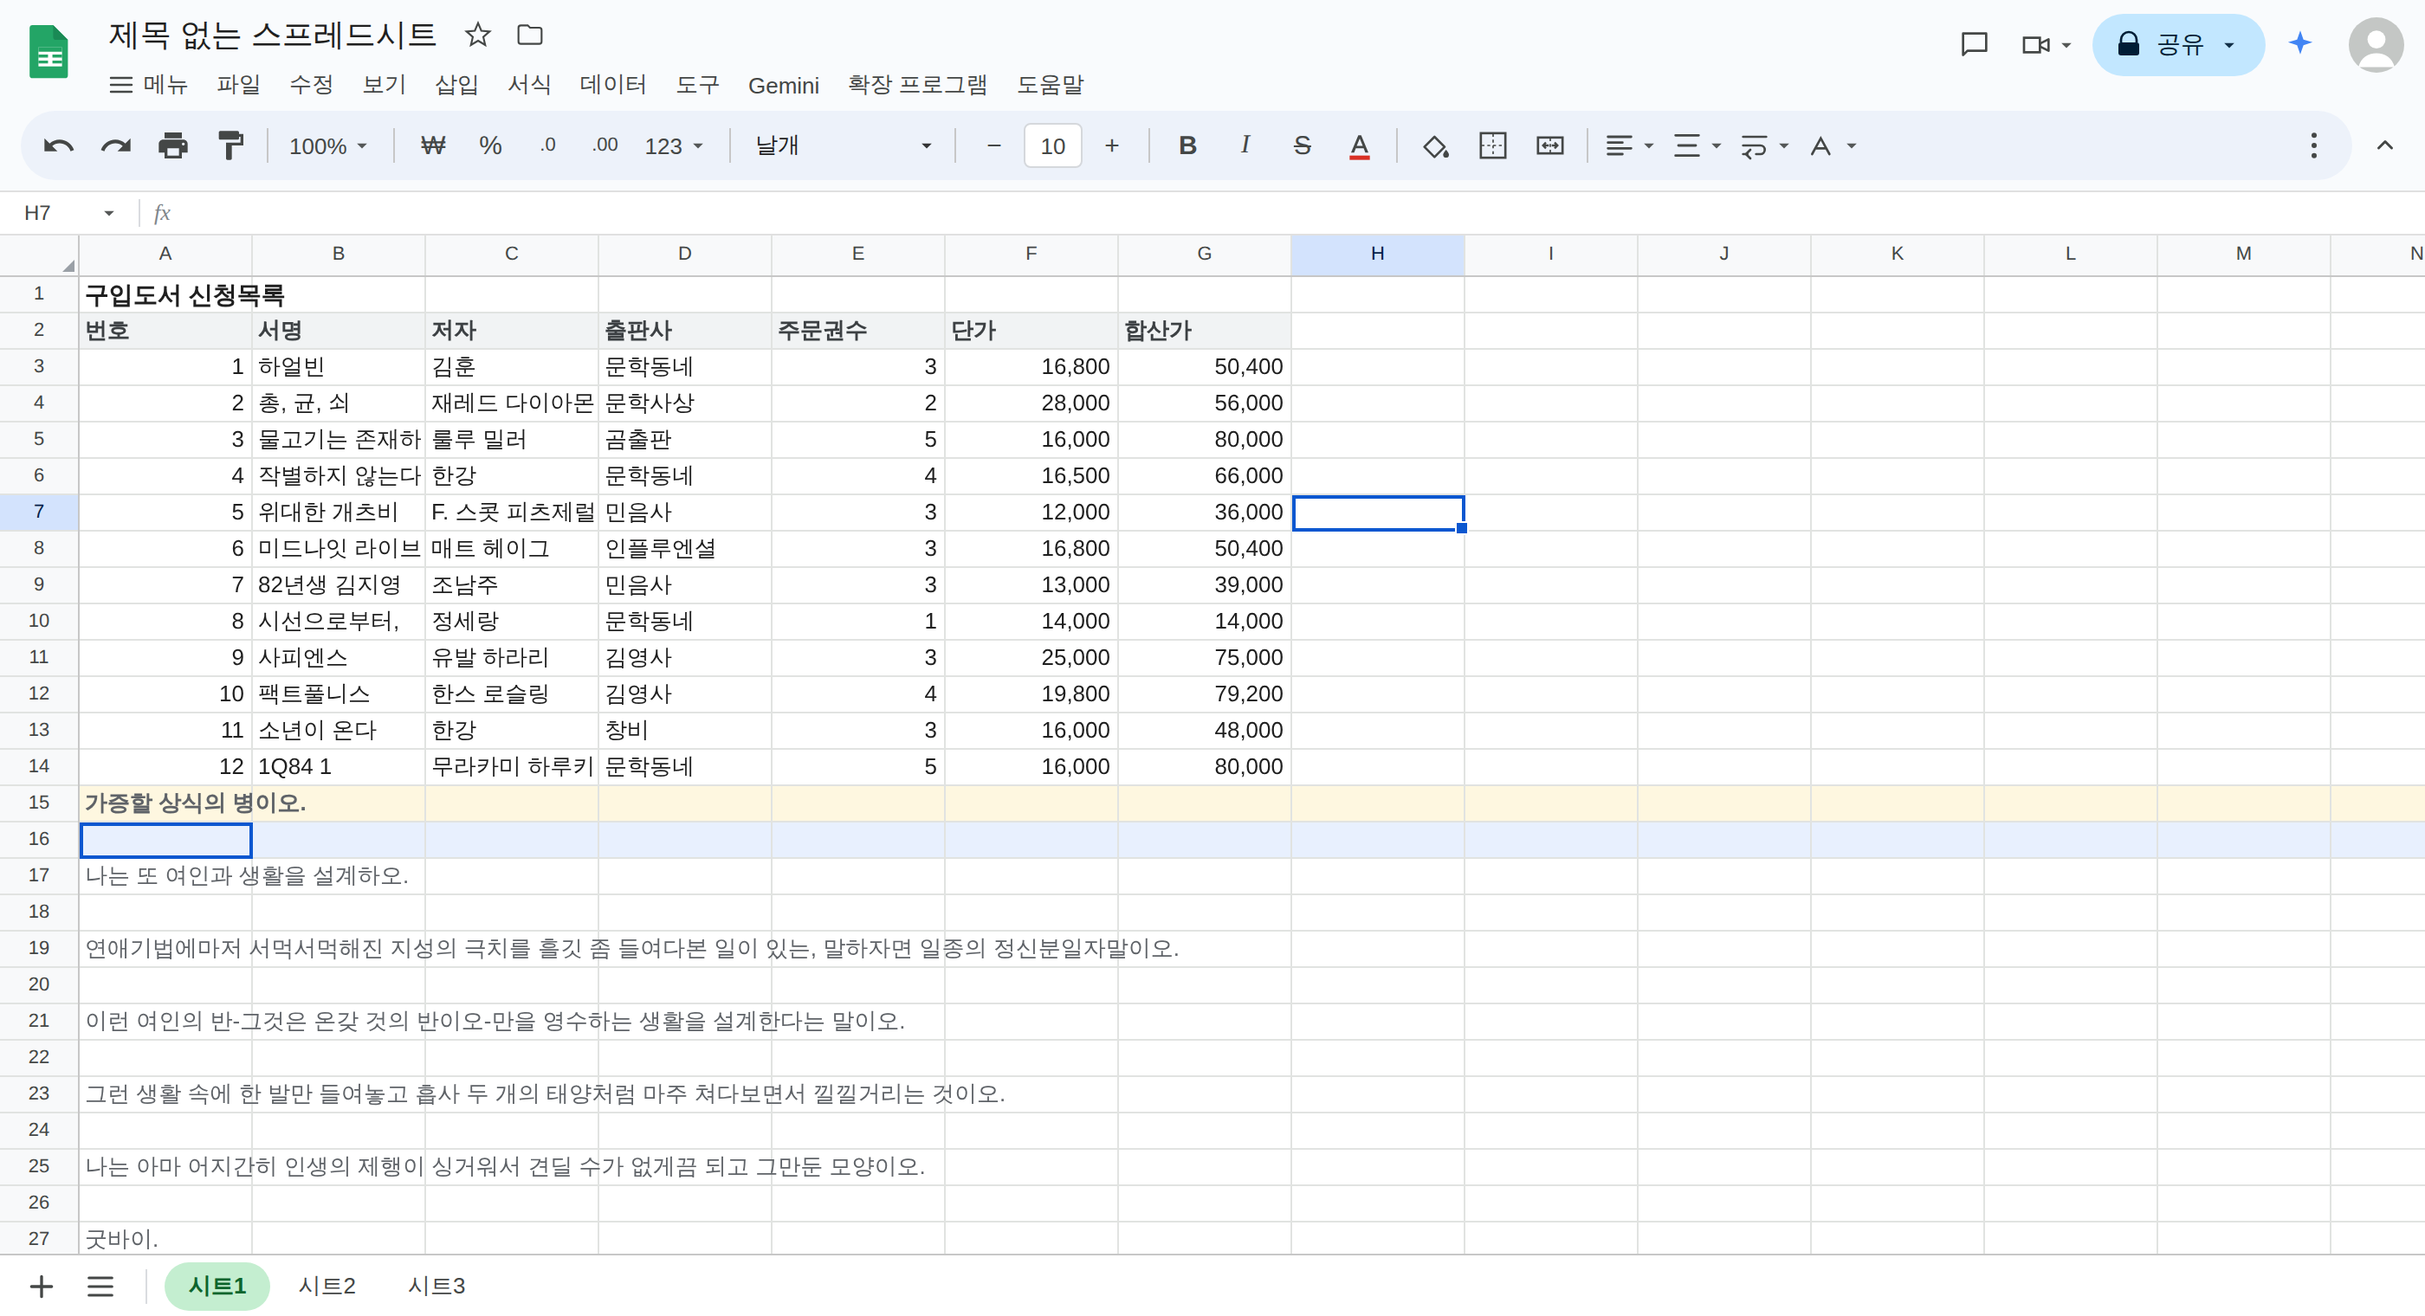
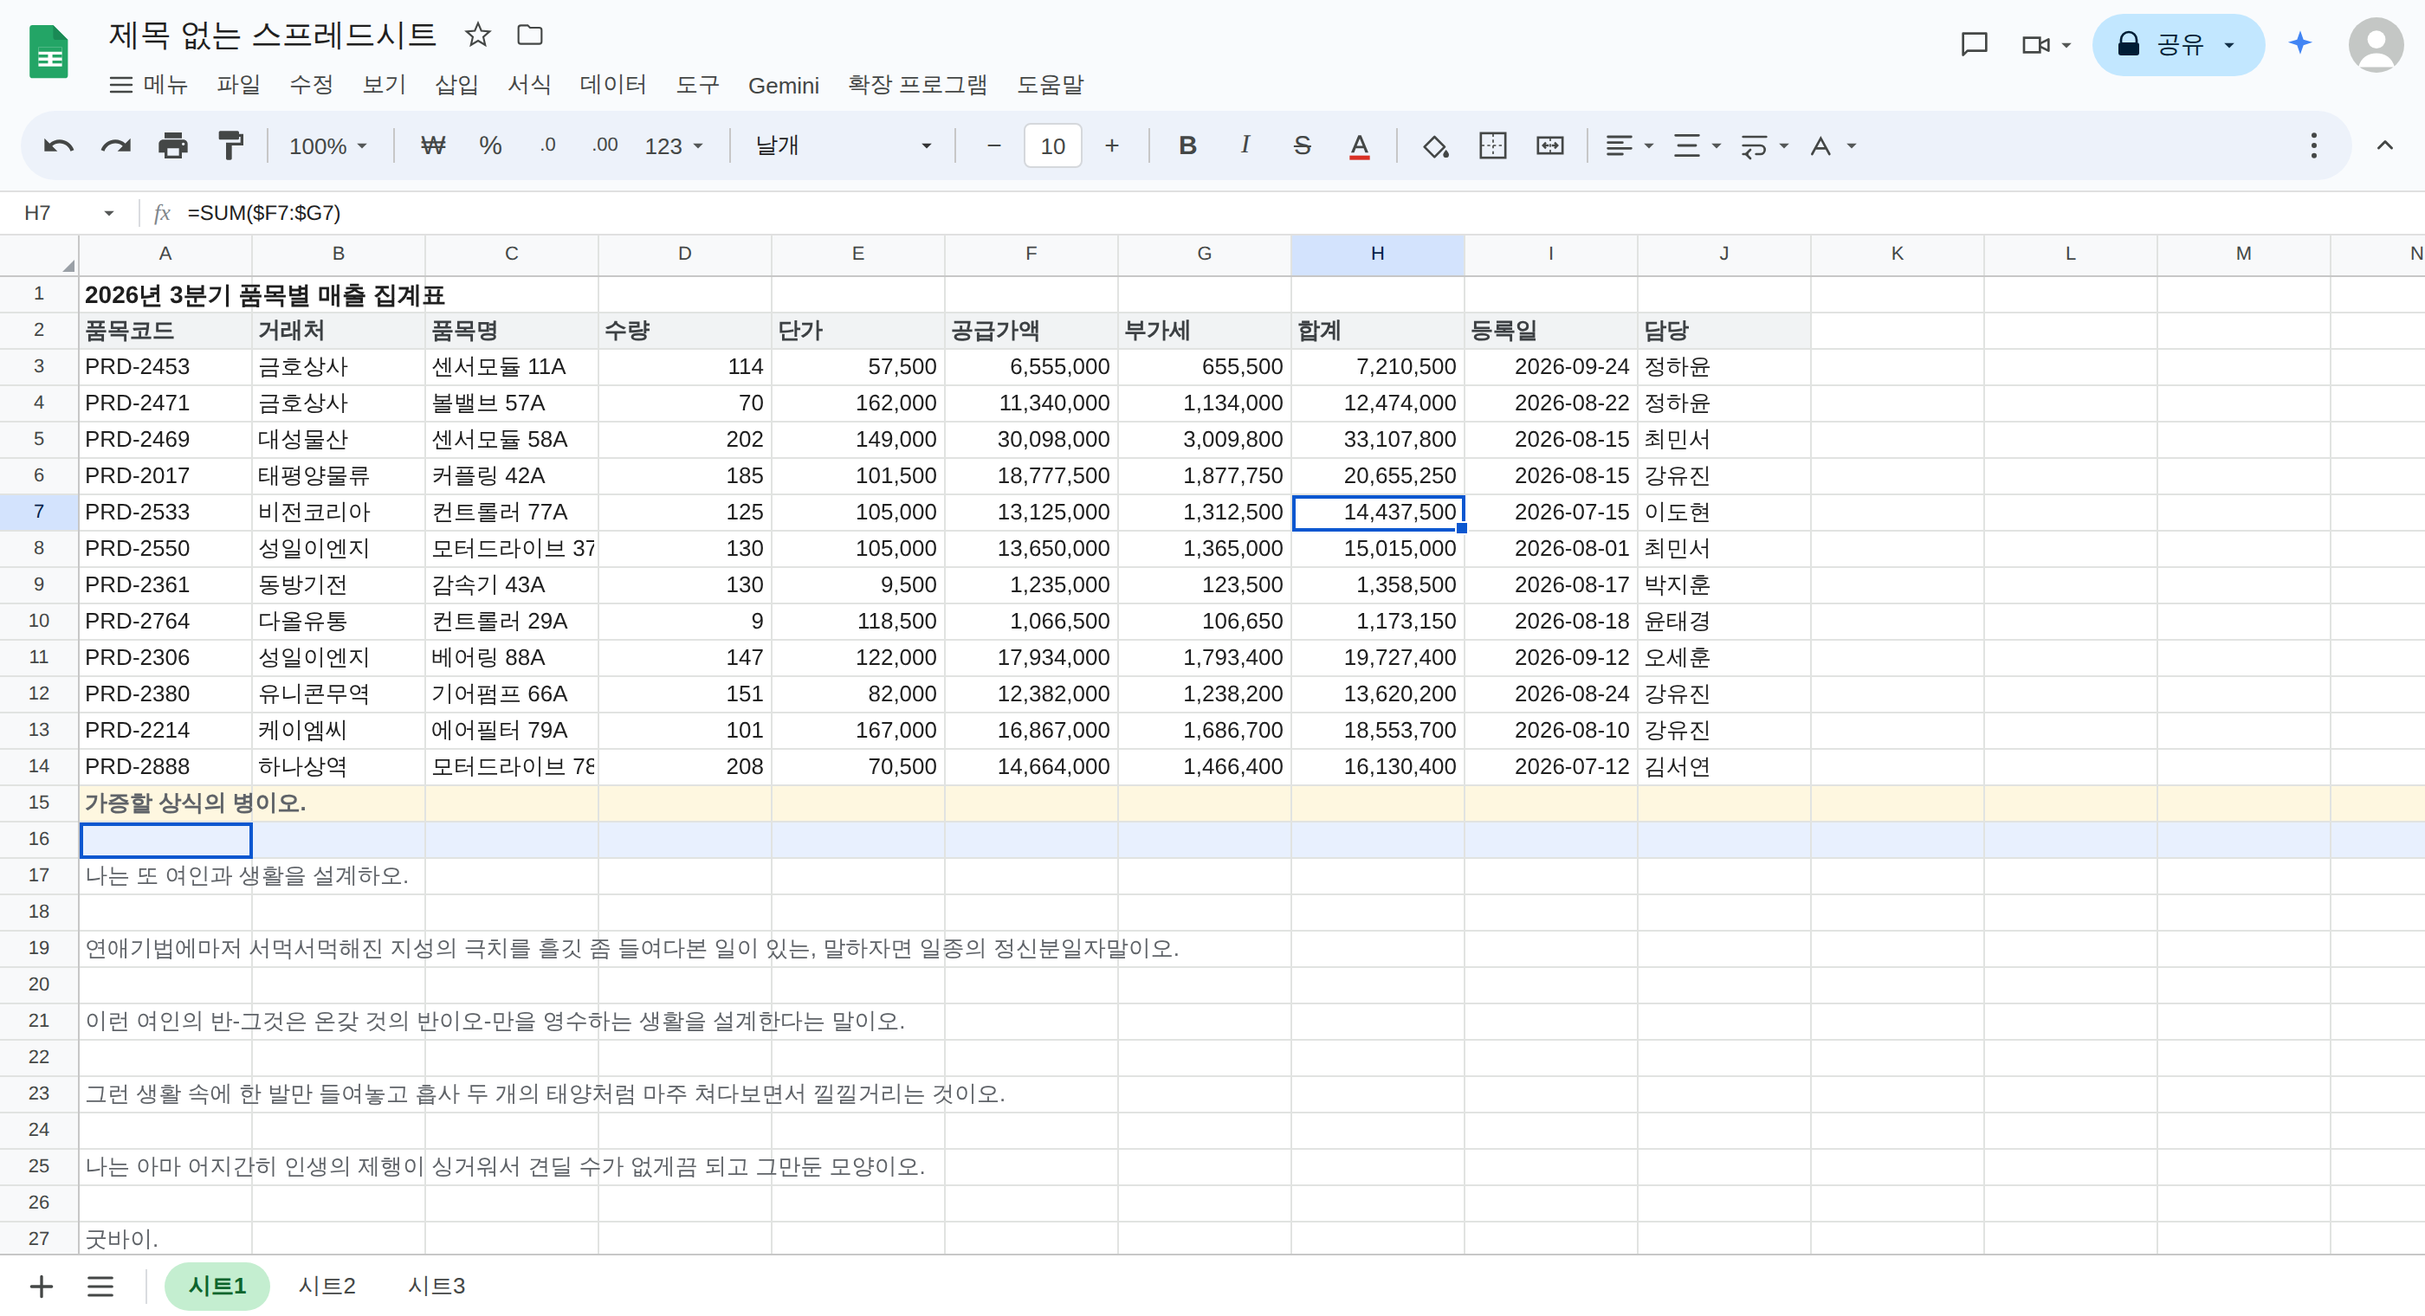
위장표를 일반 업무용 / 사서용 두 가지 중에서 고르도록
- 매출 집계표(일반 업무용)를 되살리고, 구입도서 신청목록(도서관 수서용)과
  나란히 두어 고를 수 있게 했다. 기본값은 매출 집계표.
- 고르는 자리는 글 선택 도구 맨 아래 '위장표' 칸. 고른 값은 저장된다.
- 두 표를 같은 모양(title / head / row / formula)으로 맞춰 두어
  나중에 다른 직군용 표를 더하기 쉽게 했다.
- 연습 도중에 바꿔도 진행 상황은 그대로 두고,
  이미 바뀐 줄만 새 표로 다시 그린다. 칸 수가 달라도 이전 표가 남지 않게
  머리글과 데이터 행을 비우고 다시 채운다.

Claude-Session: https://claude.ai/code/session_01PBS7upHdzMGazshUNhYMyz

diff --git a/js/util.js b/js/util.js
@@ -165,8 +165,27 @@ var U = (function () {
     return out;
   }
 
-  /* ---------- 위장용 업무 데이터 ----------
-     도서관 수서 담당자의 '구입도서 신청목록'처럼 보이게 한다.
+  /* ---------- 위장표 ----------
+     연습을 마친 줄이 바뀌어 보이는 표. 두 가지 중에서 고른다.
+       sales   : 일반 업무용 매출 집계표
+       library : 도서관 수서용 구입도서 신청목록 */
+
+  /* 행 번호를 씨앗으로 쓰는 고정 난수 (다시 눌러도 값이 변하지 않게) */
+  function seeded(n) {
+    var x = Math.sin(n * 12.9898 + 78.233) * 43758.5453;
+    return x - Math.floor(x);
+  }
+  function pick(list, n) { return list[Math.floor(seeded(n) * list.length) % list.length]; }
+
+  /* --- 일반 업무용: 매출 집계표 --- */
+  var VENDORS = ['대성물산','한빛테크','서진상사','유니콘무역','제일산업','다올유통',
+                 '성일이엔지','금호상사','태평양물류','비전코리아','하나상역','우리테크윈',
+                 '동방기전','신일전자','케이엠씨'];
+  var OWNERS  = ['김서연','박지훈','이도현','최민서','정하윤','오세훈','강유진','윤태경'];
+  var ITEMS   = ['볼밸브','유압호스','베어링','감속기','컨트롤러','센서모듈',
+                 '커플링','에어필터','모터드라이브','기어펌프'];
+
+  /* --- 도서관 수서용: 구입도서 신청목록 ---
      서명 / 저자 / 출판사는 실제로 있는 책이고, 주문권수와 합산가는 지어낸 값이다. */
   var BOOKS = [
     ['트렌드 코리아 2026', '김난도', '미래의창', 20000],
@@ -211,44 +230,98 @@ var U = (function () {
     ['미드나잇 라이브러리', '매트 헤이그', '인플루엔셜', 16800]
   ];
 
-  var DISGUISE_HEAD = ['번호', '서명', '저자', '출판사', '주문권수', '단가', '합산가'];
+  var DISGUISES = {
+    sales: {
+      id: 'sales',
+      name: '매출 집계표',
+      sub: '일반 업무용',
+      title: '2026년 3분기 품목별 매출 집계표',
+      titleFormula: '="2026년 "&ROUNDUP(MONTH($I$3)/3,0)&"분기 품목별 매출 집계표"',
+      head: ['품목코드','거래처','품목명','수량','단가','공급가액','부가세','합계','등록일','담당'],
+      row: function (r) {
+        var qty   = 5 + Math.floor(seeded(r + 1) * 240);
+        var price = (12 + Math.floor(seeded(r + 2) * 380)) * 500;
+        var supply = qty * price;
+        var vat = Math.round(supply * 0.1);
+        var day = 1 + Math.floor(seeded(r + 3) * 28);
+        var month = 7 + Math.floor(seeded(r + 4) * 3);
+        return [
+          { v: 'PRD-' + (2000 + Math.floor(seeded(r + 5) * 900)), num: false },
+          { v: pick(VENDORS, r + 6), num: false },
+          { v: pick(ITEMS, r + 7) + ' ' + (10 + Math.floor(seeded(r + 8) * 80)) + 'A', num: false },
+          { v: comma(qty), num: true },
+          { v: comma(price), num: true },
+          { v: comma(supply), num: true },
+          { v: comma(vat), num: true },
+          { v: comma(supply + vat), num: true },
+          { v: '2026-' + pad2(month) + '-' + pad2(day), num: true },
+          { v: pick(OWNERS, r + 9), num: false }
+        ];
+      },
+      formula: function (col, r) {
+        switch (col) {
+          case 0: return '=INDEX(품목마스터!$A:$A,MATCH($C' + r + ',품목마스터!$C:$C,0))';
+          case 1: return '=VLOOKUP($A' + r + ',거래처마스터!$A:$D,2,FALSE)';
+          case 2: return '=VLOOKUP($A' + r + ',품목마스터!$A:$C,3,FALSE)';
+          case 3: return '=SUMIFS(출고내역!$E:$E,출고내역!$B:$B,$A' + r + ')';
+          case 4: return '=VLOOKUP($A' + r + ',단가표!$A:$C,3,FALSE)';
+          case 5: return '=ROUND($D' + r + '*$E' + r + ',0)';
+          case 6: return '=ROUND($F' + r + '*0.1,0)';
+          case 7: return '=SUM($F' + r + ':$G' + r + ')';
+          case 8: return '=EOMONTH($I$2,-1)+' + ((r % 27) + 1);
+          case 9: return '=IFERROR(VLOOKUP($B' + r + ',담당자!$A:$B,2,FALSE),"미배정")';
+          default: return '';
+        }
+      }
+    },
 
-  /* 행 번호를 씨앗으로 쓰는 고정 난수 (다시 눌러도 값이 변하지 않게) */
-  function seeded(n) {
-    var x = Math.sin(n * 12.9898 + 78.233) * 43758.5453;
-    return x - Math.floor(x);
-  }
-
-  function disguiseRow(rowIndex) {
-    /* 목록이 한 바퀴 다 돌기 전에는 같은 책이 다시 나오지 않게 건너뛰며 고른다 */
-    var book = BOOKS[(rowIndex * 17) % BOOKS.length];
-    var copies = 1 + Math.floor(seeded(rowIndex + 1) * 5);   /* 1~5권 */
-    var price = book[3];
-    return [
-      { v: String(Math.max(1, rowIndex - 1)), num: true },
-      { v: book[0], num: false },
-      { v: book[1], num: false },
-      { v: book[2], num: false },
-      { v: String(copies), num: true },
-      { v: comma(price), num: true },
-      { v: comma(copies * price), num: true }
-    ];
-  }
-
-  /* 위장된 셀을 클릭하면 수식 입력줄에 보이는 함수 */
-  function disguiseFormula(col, row1) {
-    var r = row1;
-    switch (col) {
-      case 0: return '=ROW()-2';
-      case 1: return '=VLOOKUP($A' + r + ',수서대장!$A:$E,2,FALSE)';
-      case 2: return '=VLOOKUP($A' + r + ',수서대장!$A:$E,3,FALSE)';
-      case 3: return '=VLOOKUP($A' + r + ',수서대장!$A:$E,4,FALSE)';
-      case 4: return '=SUMIF(신청내역!$B:$B,$B' + r + ',신청내역!$D:$D)';
-      case 5: return '=VLOOKUP($B' + r + ',정가표!$A:$B,2,FALSE)';
-      case 6: return '=ROUND($E' + r + '*$F' + r + ',0)';
-      default: return '';
+    library: {
+      id: 'library',
+      name: '구입도서 신청목록',
+      sub: '도서관 수서용',
+      title: '구입도서 신청목록',
+      titleFormula: '=설정!$B$1&" 구입도서 신청목록"',
+      head: ['번호','서명','저자','출판사','주문권수','단가','합산가'],
+      row: function (r) {
+        /* 목록이 한 바퀴 다 돌기 전에는 같은 책이 다시 나오지 않게 건너뛰며 고른다 */
+        var book = BOOKS[(r * 17) % BOOKS.length];
+        var copies = 1 + Math.floor(seeded(r + 1) * 5);   /* 1~5권 */
+        var price = book[3];
+        return [
+          { v: String(Math.max(1, r - 1)), num: true },
+          { v: book[0], num: false },
+          { v: book[1], num: false },
+          { v: book[2], num: false },
+          { v: String(copies), num: true },
+          { v: comma(price), num: true },
+          { v: comma(copies * price), num: true }
+        ];
+      },
+      formula: function (col, r) {
+        switch (col) {
+          case 0: return '=ROW()-2';
+          case 1: return '=VLOOKUP($A' + r + ',수서대장!$A:$E,2,FALSE)';
+          case 2: return '=VLOOKUP($A' + r + ',수서대장!$A:$E,3,FALSE)';
+          case 3: return '=VLOOKUP($A' + r + ',수서대장!$A:$E,4,FALSE)';
+          case 4: return '=SUMIF(신청내역!$B:$B,$B' + r + ',신청내역!$D:$D)';
+          case 5: return '=VLOOKUP($B' + r + ',정가표!$A:$B,2,FALSE)';
+          case 6: return '=ROUND($E' + r + '*$F' + r + ',0)';
+          default: return '';
+        }
+      }
     }
+  };
+
+  var DISGUISE_ORDER = ['sales', 'library'];
+  var disguiseId = 'sales';
+
+  function setDisguise(id) {
+    if (DISGUISES[id]) disguiseId = id;
+    return disguiseId;
   }
+  function getDisguise() { return DISGUISES[disguiseId]; }
+  function disguiseRow(rowIndex) { return getDisguise().row(rowIndex); }
+  function disguiseFormula(col, row1) { return getDisguise().formula(col, row1); }
 
   return {
     el: el, $: $, save: save, load: load,
@@ -257,7 +330,10 @@ var U = (function () {
     wrapLine: wrapLine,
     splitSentences: splitSentences,
     toPracticeLines: toPracticeLines,
-    DISGUISE_HEAD: DISGUISE_HEAD,
+    DISGUISES: DISGUISES,
+    DISGUISE_ORDER: DISGUISE_ORDER,
+    setDisguise: setDisguise,
+    getDisguise: getDisguise,
     disguiseRow: disguiseRow,
     disguiseFormula: disguiseFormula
   };

diff --git a/js/app.js b/js/app.js
@@ -7,6 +7,15 @@ var App = (function () {
   var selectedId = null;
   var customList = [];
   var customOver = 0;
+  var disguiseId = 'sales';
+
+  /* 위장표를 바꾼다. 이미 마친 줄도 새 표로 다시 그린다. */
+  function selectDisguise(id) {
+    disguiseId = U.setDisguise(id);
+    U.save('disguise', disguiseId);
+    Typing.repaintDisguise();
+    Typing.refocus();
+  }
 
   var nameBox, formulaValue;
 
@@ -150,6 +159,24 @@ var App = (function () {
       dd.appendChild(item('custom:none', '시트2가 비어 있음', '아무 셀에나 붙여넣으세요', false));
     }
 
+    /* 연습을 마친 줄이 무엇으로 바뀔지 (위장표) */
+    dd.appendChild(U.el('div', 'dropdown__sep'));
+    dd.appendChild(U.el('div', 'dropdown__label', '위장표'));
+    U.DISGUISE_ORDER.forEach(function (id) {
+      var d = U.DISGUISES[id];
+      var b = U.el('button', 'dropdown__item');
+      b.type = 'button';
+      b.appendChild(U.el('span', 'dropdown__check', disguiseId === id ? '\u2713' : ''));
+      b.appendChild(U.el('span', 'dropdown__main', d.name));
+      b.appendChild(U.el('span', 'dropdown__sub', d.sub));
+      b.addEventListener('click', function () {
+        Chrome.hideDropdown();
+        selectDisguise(id);
+        activate('시트1');
+      });
+      dd.appendChild(b);
+    });
+
     Chrome.showDropdown(btn, dd);
   }
 
@@ -162,7 +189,8 @@ var App = (function () {
     ['b', 'Enter 를 누르면 다음 줄의 입력칸으로 넘어갑니다.'],
     ['b', '줄을 끝까지 입력했다면 Space 로도 다음 줄로 넘어갑니다.'],
     ['b', '지금 치는 글줄과 입력칸에는 색이 깔리고 글자가 굵게 나옵니다.'],
-    ['b', '입력을 마친 줄은 구입도서 신청목록으로 바뀌어 표시됩니다.'],
+    ['b', '입력을 마친 줄은 업무용 표로 바뀌어 표시됩니다.'],
+    ['b', '글 선택 도구 아래에서 매출 집계표 / 구입도서 신청목록 중 고릅니다.'],
     ['b', '바뀐 셀을 클릭하면 수식 입력줄에 함수가 보입니다.'],
     ['b', '마지막 줄까지 마치면 결과 창이 열립니다. Enter 로 닫습니다.'],
     ['', ''],
@@ -352,6 +380,9 @@ var App = (function () {
       sheets['시트2'].select(0, 0, true);
     }
     updateHint(sheets['시트2'], hint);
+
+    /* 위장표 복원 */
+    disguiseId = U.setDisguise(U.load('disguise', 'sales'));
 
     /* 연습할 글 결정 */
     customList = buildCustomList();

diff --git a/js/typing.js b/js/typing.js
@@ -276,22 +276,37 @@ var Typing = (function () {
   }
 
   /* ---------------- 위장 ---------------- */
+  function writeHead() {
+    var d = U.getDisguise();
+    sheet.clearRow(ROW_AUTHOR);
+    sheet.setCell(ROW_TITLE, 0, d.title, { cls: 'is-title', formula: d.titleFormula });
+    for (var c = 0; c < d.head.length; c++) {
+      sheet.setCell(ROW_AUTHOR, c, d.head[c], {
+        cls: 'is-head',
+        formula: '=INDEX(설정!$B:$B,' + (c + 1) + ')'
+      });
+    }
+  }
+
   function disguisePair(i) {
     if (!S.headDisguised) {
       S.headDisguised = true;
-      sheet.setCell(ROW_TITLE, 0, '구입도서 신청목록', {
-        cls: 'is-title',
-        formula: '=설정!$B$1&" 구입도서 신청목록"'
-      });
-      for (var c = 0; c < U.DISGUISE_HEAD.length; c++) {
-        sheet.setCell(ROW_AUTHOR, c, U.DISGUISE_HEAD[c], {
-          cls: 'is-head',
-          formula: '=INDEX(설정!$B:$B,' + (c + 1) + ')'
-        });
-      }
+      writeHead();
     }
     writeDataRow(targetRow(i));
     writeDataRow(inputRow(i));
+  }
+
+  /* 위장표를 바꾸면 이미 바뀐 줄들을 그 표로 다시 그린다 (진행 상황은 그대로) */
+  function repaintDisguise() {
+    if (!S || !S.headDisguised) return;
+    writeHead();
+    for (var i = 0; i < S.idx; i++) {
+      sheet.clearRow(targetRow(i));
+      sheet.clearRow(inputRow(i));
+      writeDataRow(targetRow(i));
+      writeDataRow(inputRow(i));
+    }
   }
 
   function writeDataRow(r) {
@@ -583,6 +598,7 @@ var Typing = (function () {
       sheet.revealRow(targetRow(S.idx), 4);
     },
     hotkey: hotkey,
+    repaintDisguise: repaintDisguise,
     stopAttack: stopAttack,
     isAttackActive: function () { return S && S.mode === 'attack' && S.attack.running; },
     isFinished: function () { return S && S.finished; }

diff --git a/README.md b/README.md
@@ -48,8 +48,19 @@
 
 ### 위장 기능
 
-한 줄을 끝내고 `Enter` 를 누르면 그 줄의 **글과 입력한 글이 사라지고 업무용 데이터로 바뀝니다.**
-도서관 수서 담당자의 **구입도서 신청목록**처럼 보이게 되어 있습니다.
+한 줄을 끝내고 `Enter` 를 누르면 그 줄의 **글과 입력한 글이 사라지고 업무용 표로 바뀝니다.**
+바뀐 셀을 클릭하면 수식 입력줄에 함수가 보입니다.
+연습을 이어갈수록 화면이 점점 평범한 업무 문서가 됩니다.
+
+위장표는 **글 선택 도구 맨 아래**에서 두 가지 중에 고릅니다. 고른 값은 저장됩니다.
+
+**매출 집계표** (일반 업무용, 기본값)
+
+| 품목코드 | 거래처 | 품목명 | 수량 | 단가 | 공급가액 | 부가세 | 합계 | 등록일 | 담당 |
+|---|---|---|---|---|---|---|---|---|---|
+| PRD-2453 | 금호상사 | 센서모듈 11A | 114 | 57,500 | 6,555,000 | 655,500 | 7,210,500 | 2026-09-24 | 정하윤 |
+
+**구입도서 신청목록** (도서관 수서용)
 
 | 번호 | 서명 | 저자 | 출판사 | 주문권수 | 단가 | 합산가 |
 |---|---|---|---|---|---|---|
@@ -58,9 +69,8 @@
 
 서명·저자·출판사는 실제로 있는 책 40권에서 가져오고(같은 책이 한 바퀴 돌기 전에는 다시 나오지 않습니다),
 주문권수는 1~5권 사이에서 정해집니다. 합산가는 단가 × 권수로 맞아떨어집니다.
-바뀐 셀을 클릭하면 수식 입력줄에 함수가 보입니다. (`=ROUND($E4*$F4,0)` 처럼)
 
-연습을 이어갈수록 화면이 점점 평범한 신청목록이 됩니다.
+연습 도중에 바꿔도 **진행 상황은 그대로**이고, 이미 바뀐 줄만 새 표로 다시 그려집니다.
 
 ![위장](docs/screenshot-disguise.png)
 
